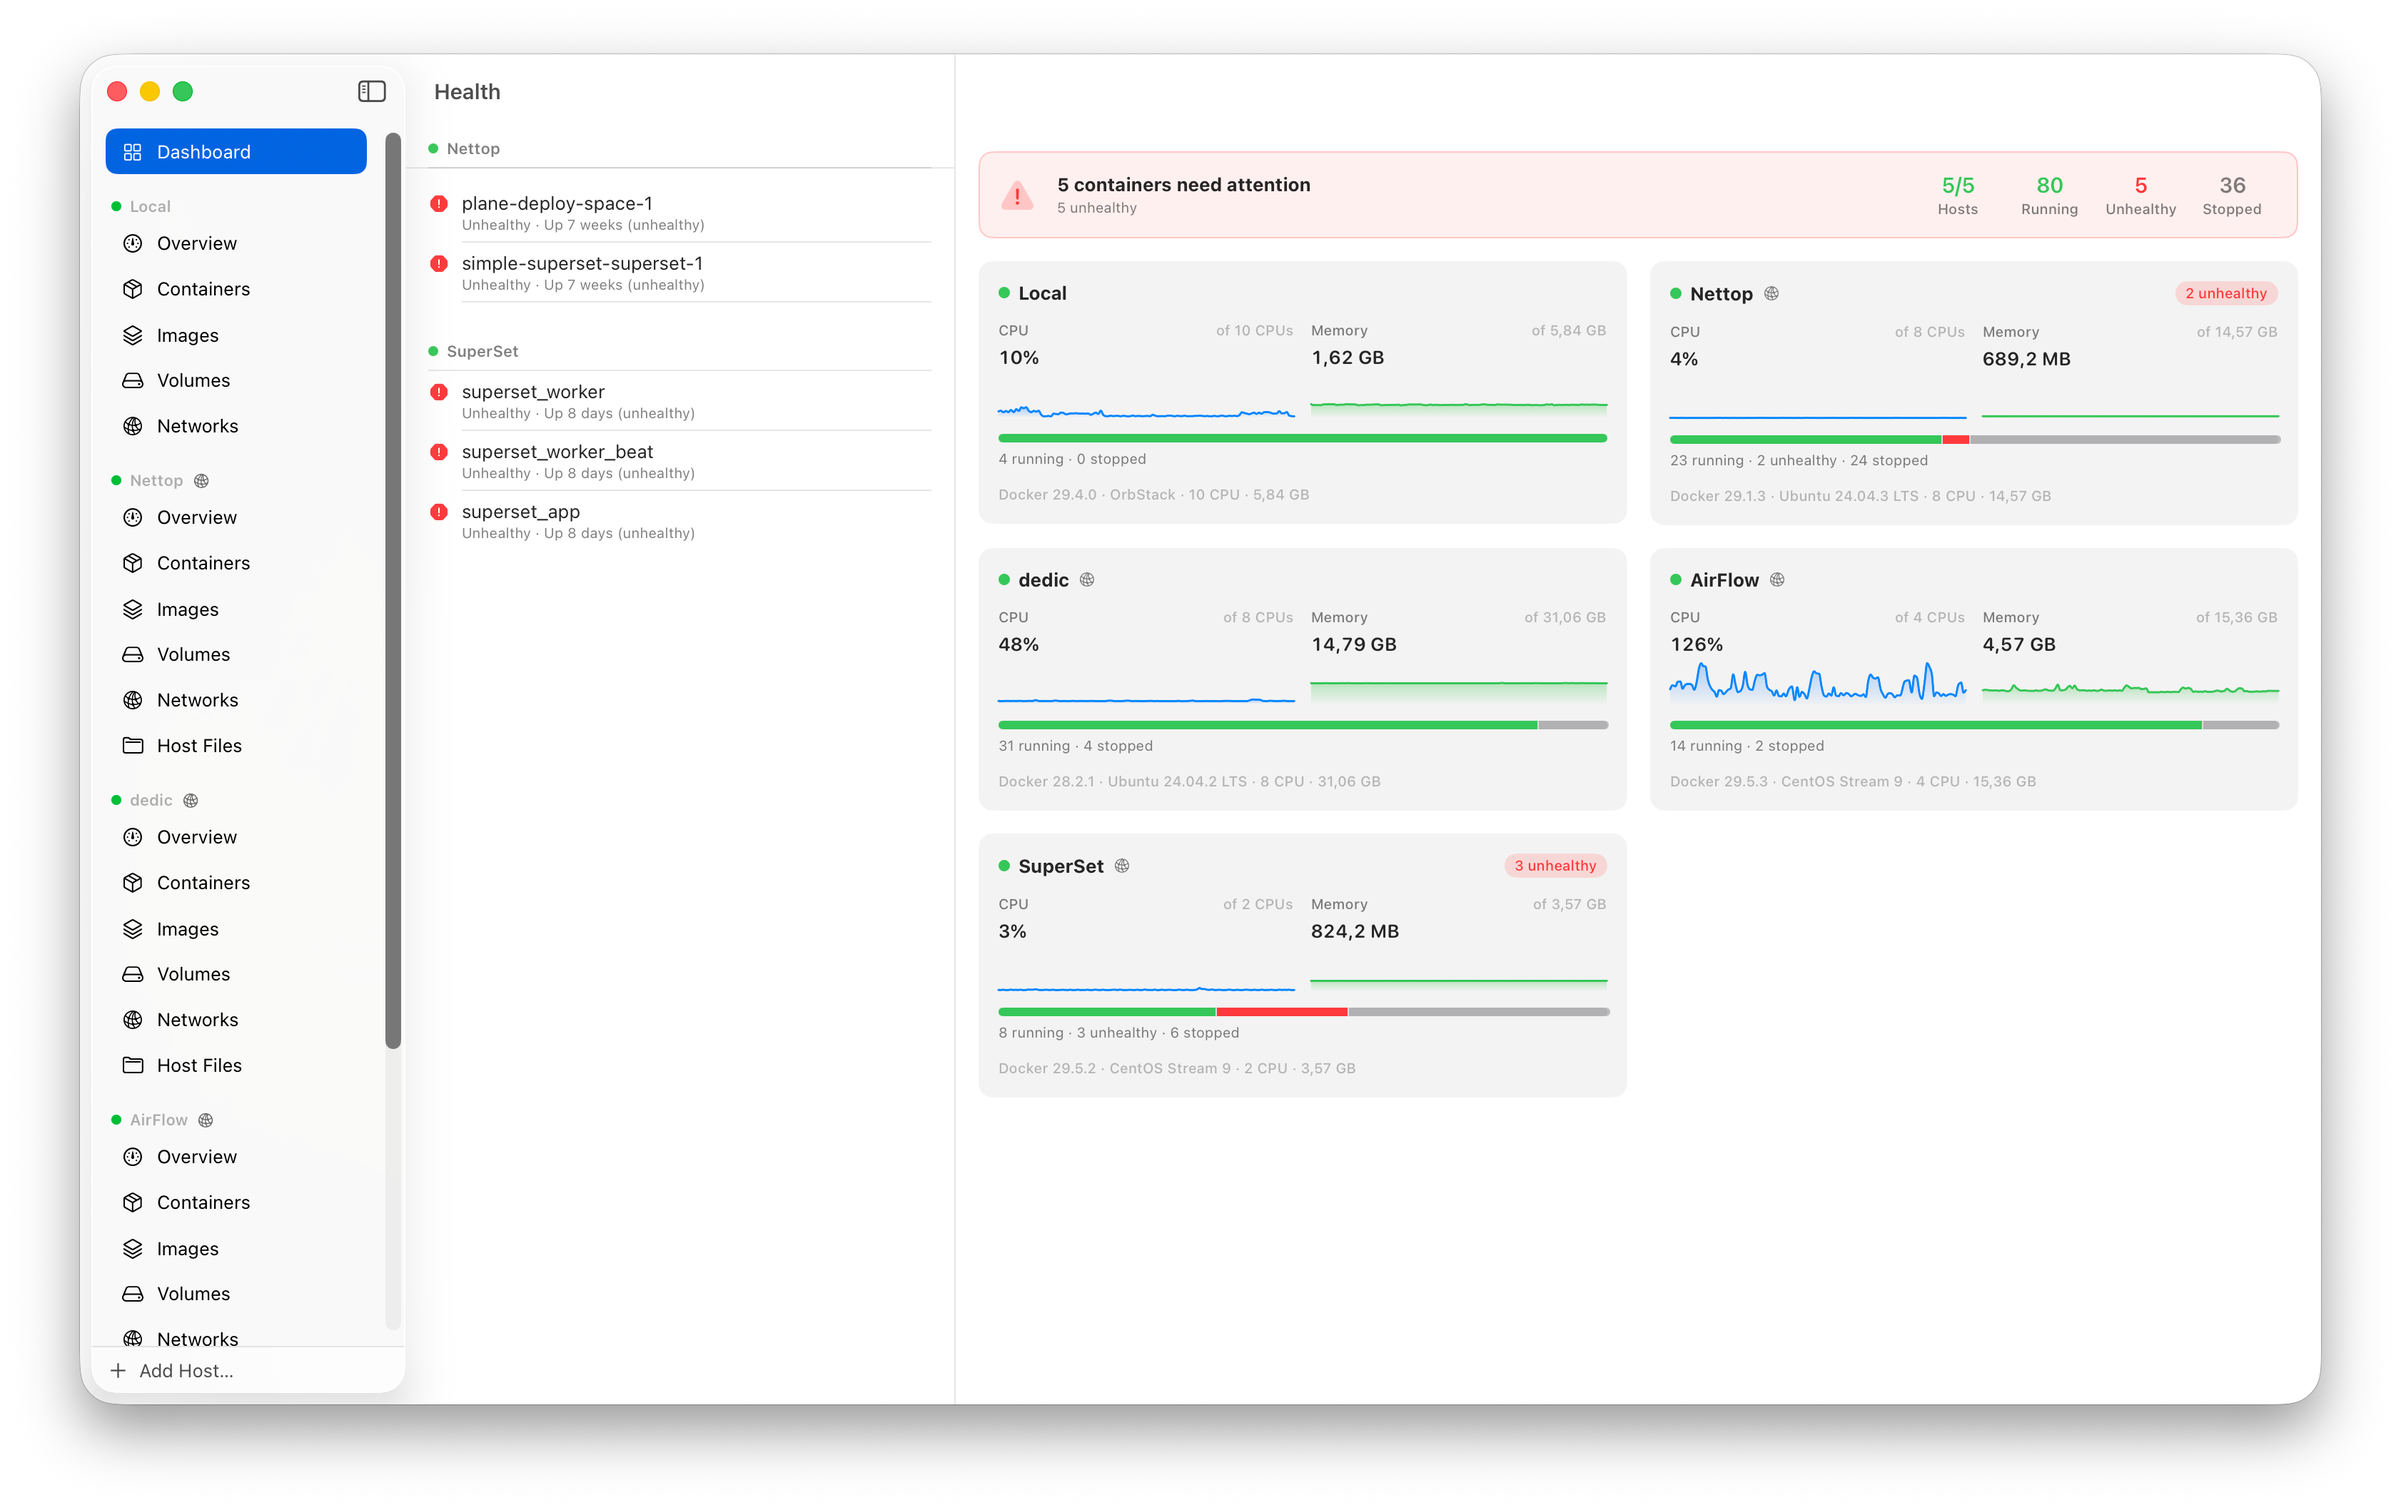
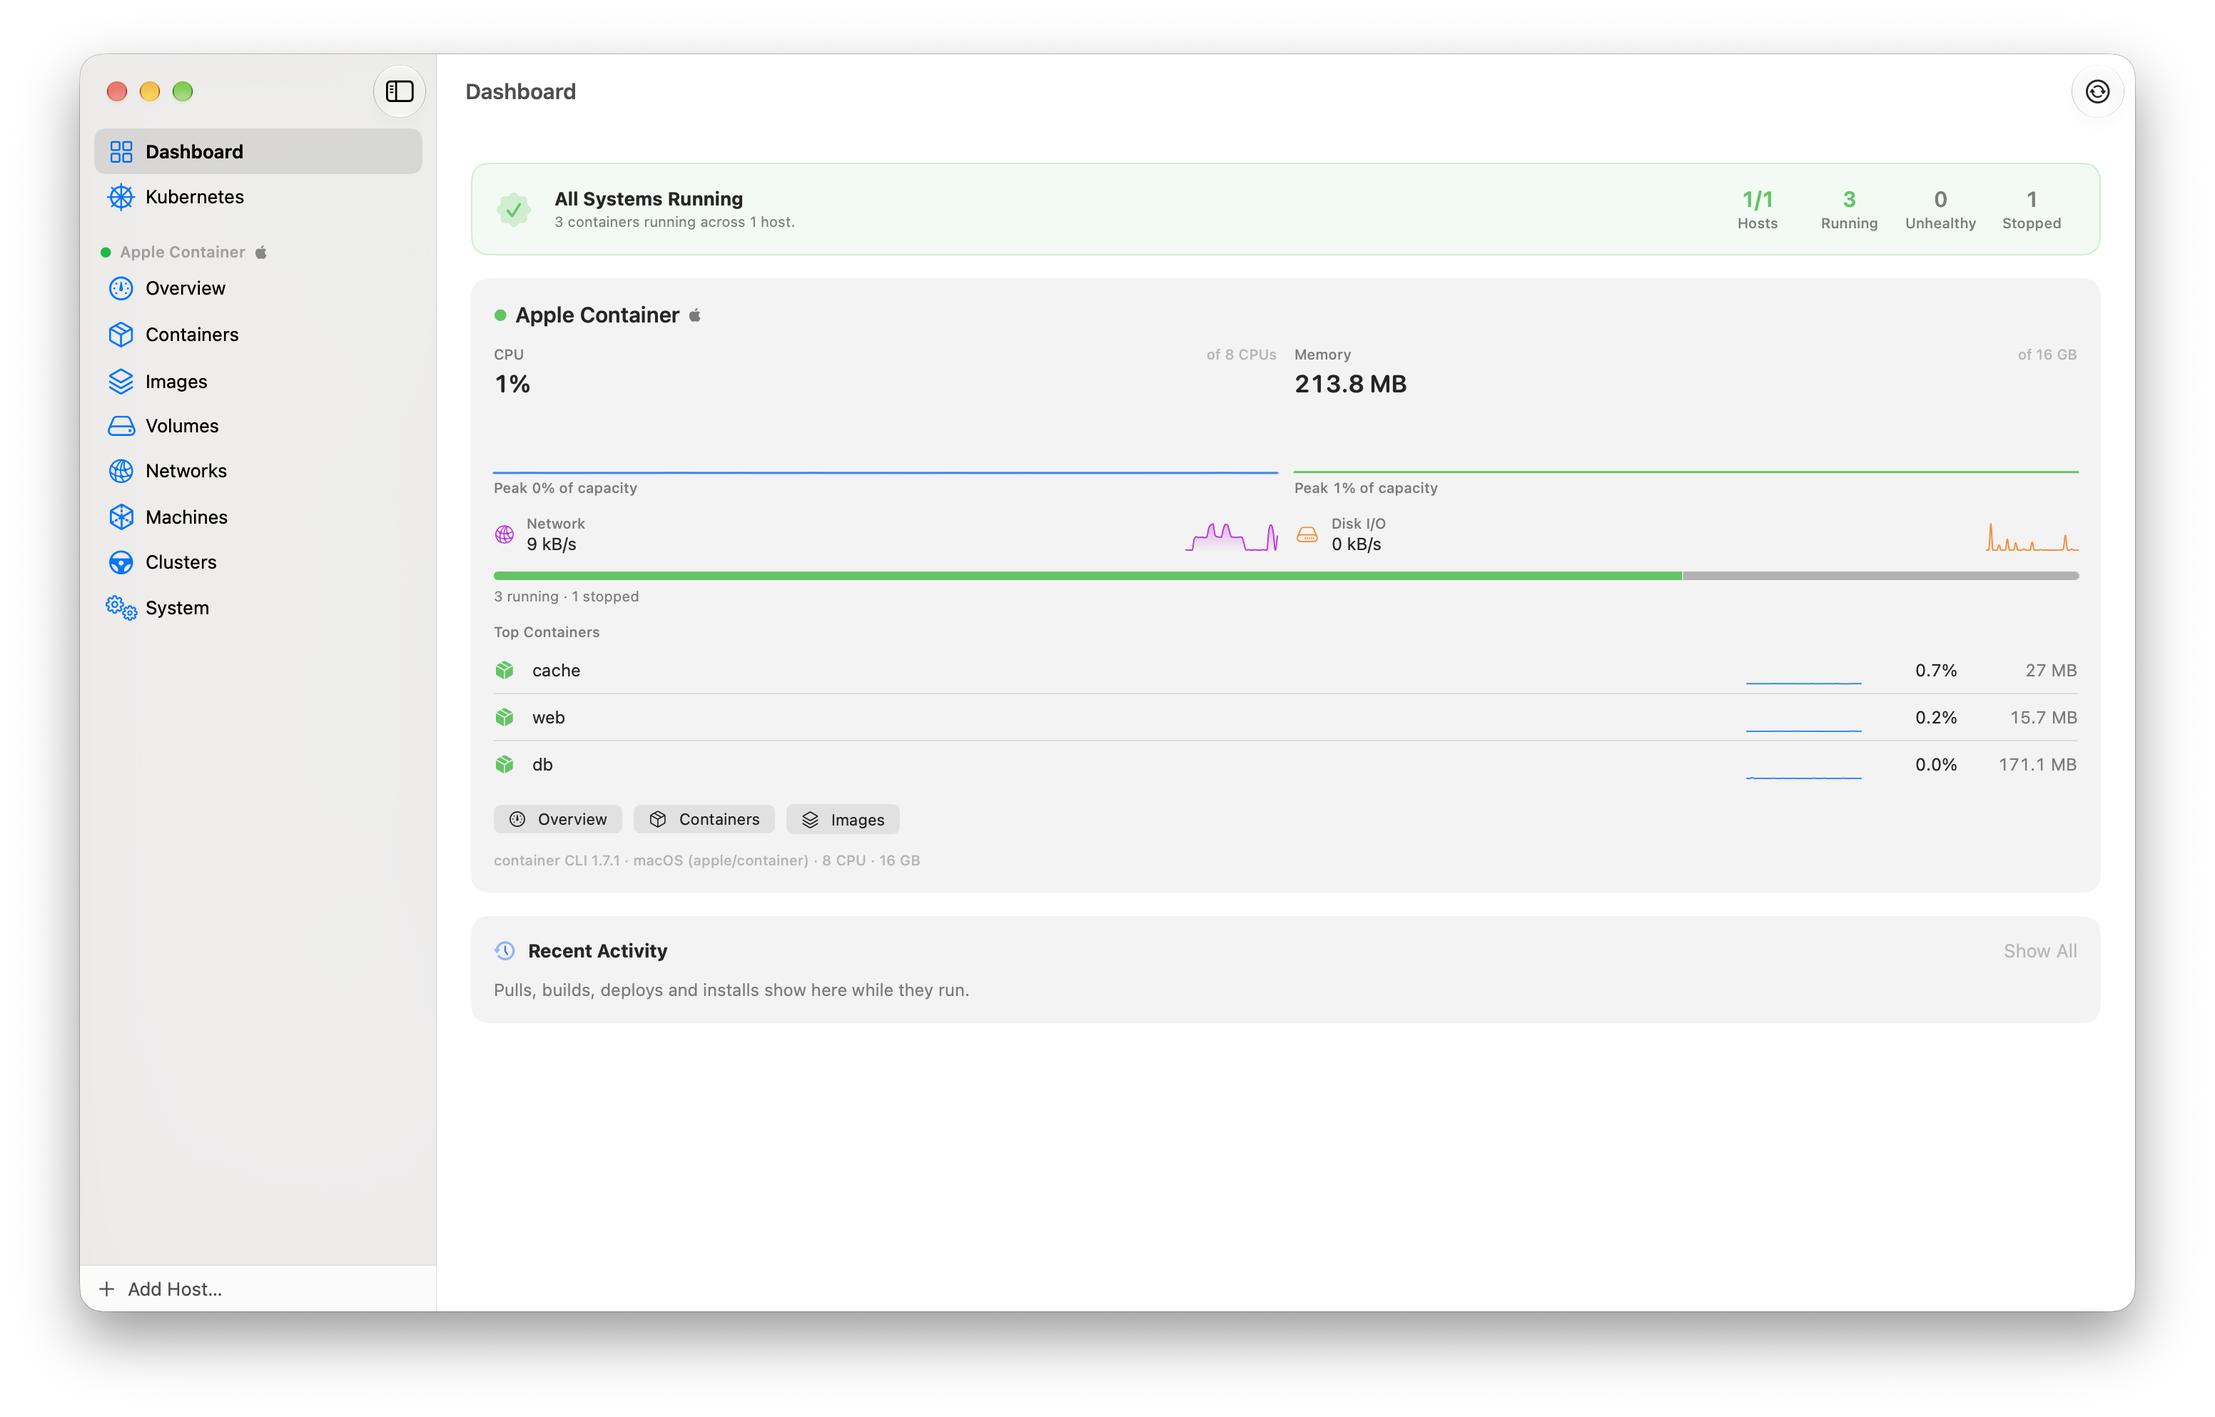
feat(pages): add the 0.27.0 screenshots and turn on native kubernetes and external storage

diff --git a/templates/home.html b/templates/home.html
@@ -138,7 +138,7 @@
                 </div>
                 <div class="window-body">
                   <div class="container-skin"></div>
-                  <img src="{{ root }}assets/dashboard.png" alt="{{ t.home.hero.img_alt|attr }}" width="1200" height="755" decoding="async" fetchpriority="high">
+                  <img src="{{ root }}assets/dashboard.png" alt="{{ t.home.hero.img_alt|attr }}" width="1200" height="768" decoding="async" fetchpriority="high">
                 </div>
               </div>
             </div>
@@ -478,7 +478,7 @@
             <figure>
               <div class="window dark-chrome" data-parallax="0.04">
                 <div class="titlebar"><span class="dot r"></span><span class="dot y"></span><span class="dot g"></span><span class="tb-title">{{ t.home.shots.stats_title }}</span></div>
-                <div class="window-body"><img src="{{ root }}assets/stats.png" alt="{{ t.home.shots.stats_alt|attr }}" width="3364" height="2116" loading="lazy" decoding="async"></div>
+                <div class="window-body"><img src="{{ root }}assets/stats.png" alt="{{ t.home.shots.stats_alt|attr }}" width="3104" height="1986" loading="lazy" decoding="async"></div>
               </div>
               <figcaption>{{ t.home.shots.stats_caption }}</figcaption>
             </figure>
@@ -487,7 +487,7 @@
             <figure>
               <div class="window dark-chrome" data-parallax="0.06">
                 <div class="titlebar"><span class="dot r"></span><span class="dot y"></span><span class="dot g"></span><span class="tb-title">{{ t.home.shots.overview_title }}</span></div>
-                <div class="window-body"><img src="{{ root }}assets/overview.png" alt="{{ t.home.shots.overview_alt|attr }}" width="3364" height="2116" loading="lazy" decoding="async"></div>
+                <div class="window-body"><img src="{{ root }}assets/overview.png" alt="{{ t.home.shots.overview_alt|attr }}" width="3104" height="1986" loading="lazy" decoding="async"></div>
               </div>
               <figcaption>{{ t.home.shots.overview_caption }}</figcaption>
             </figure>
@@ -496,7 +496,7 @@
             <figure>
               <div class="window dark-chrome" data-parallax="0.06">
                 <div class="titlebar"><span class="dot r"></span><span class="dot y"></span><span class="dot g"></span><span class="tb-title">{{ t.home.shots.fleet_title }}</span></div>
-                <div class="window-body"><img src="{{ root }}assets/dashboard.png" alt="{{ t.home.shots.fleet_alt|attr }}" width="3364" height="2116" loading="lazy" decoding="async"></div>
+                <div class="window-body"><img src="{{ root }}assets/fleet.png" alt="{{ t.home.shots.fleet_alt|attr }}" width="3364" height="2116" loading="lazy" decoding="async"></div>
               </div>
               <figcaption>{{ t.home.shots.fleet_caption }}</figcaption>
             </figure>

diff --git a/styles.css b/styles.css
@@ -538,6 +538,12 @@ a { color: inherit; text-decoration: none; }
 .shot .window { border: 1px solid var(--border); }
 .shot figcaption { margin-top: 14px; color: var(--text-dim); font-size: 0.92rem; font-weight: 500; display: flex; gap: 9px; align-items: baseline; }
 .shot figcaption b { color: var(--text); font-weight: 640; }
+/* Screenshots that build_pages.py shot() inserts into pages and guides. */
+.guide-shot { margin: 28px auto; max-width: 100%; }
+.guide-shot img { display: block; width: 100%; max-width: 100%; height: auto; }
+.guide-shot img[src*="explain-failure"] { max-width: 560px; margin: 0 auto; }
+.guide-shot figcaption { margin-top: 10px; color: var(--text-dim); font-size: 0.92rem; text-align: center; }
+.guide-shot figcaption b { color: var(--text); font-weight: 640; }
 .shot.wide { grid-column: span 2; }
 
 /* ============================ Built different ============================ */

diff --git a/build_pages.py b/build_pages.py
@@ -21,8 +21,8 @@ APP_VERSION = "0.27.0"
 # Features that are built on a branch but not merged yet. The pages show the text for the shipped state only when
 # the flag is True; flip a flag when its branch merges and rebuild.
 FLAGS = {
-    "k8s_native": False,        # feat/kubernetes-native: Kubernetes browser without kubectl
-    "external_storage": False,  # feat/external-storage: move the data root, volumes on a disk, unplug safety
+    "k8s_native": True,         # feat/kubernetes-native: Kubernetes browser without kubectl
+    "external_storage": True,   # feat/external-storage: move the data root, volumes on a disk, unplug safety
 }
 VARIANTS = {"_native": "k8s_native", "_shipped": "external_storage"}
 FIXED_KEYS = {"id", "code", "table", "shot", "when", "unless"}

diff --git a/specs/001-landing-027/tasks.md b/specs/001-landing-027/tasks.md
@@ -23,16 +23,16 @@ description: "Task list for the Gantry 0.27.0 landing update"
 
 ## Phase 1: Setup (Facts and Sources)
 
-- [ ] T001 Read build_pages.py, build_docs.py, templates/ and i18n/en.json. Write down how hreflang, the sitemap, llms.txt, JSON-LD and Open Graph tags are built.
-- [ ] T002 [P] Collect the 0.27.0 facts from ~/PycharmProjects/docker-watch/CHANGELOG.md, PRs #47 to #55 and /Volumes/SanDisk2Tb/builds/gantry-027/*/REPORT.md into a claims list with a source for each claim
-- [ ] T003 [P] Collect the current facts of Docker Desktop, OrbStack and Podman Desktop from their own pages, with links
+- [x] T001 Read build_pages.py, build_docs.py, templates/ and i18n/en.json. Write down how hreflang, the sitemap, llms.txt, JSON-LD and Open Graph tags are built.
+- [x] T002 [P] Collect the 0.27.0 facts from ~/PycharmProjects/docker-watch/CHANGELOG.md, PRs #47 to #55 and /Volumes/SanDisk2Tb/builds/gantry-027/*/REPORT.md into a claims list with a source for each claim
+- [x] T003 [P] Collect the current facts of Docker Desktop, OrbStack and Podman Desktop from their own pages, with links
 
 ---
 
 ## Phase 2: Foundational (Blocking Prerequisites)
 
-- [ ] T004 Write the link checker with checks for unique titles, unique descriptions, sitemap entries and hreflang in scripts/check_links.py
-- [ ] T005 Decide if the comparison and Kubernetes guides update the existing pages or are new pages (open question in spec.md)
+- [x] T004 Write the link checker with checks for unique titles, unique descriptions, sitemap entries and hreflang in scripts/check_links.py
+- [x] T005 Decide if the comparison and Kubernetes guides update the existing pages or are new pages (open question in spec.md)
 
 ---
 
@@ -40,11 +40,11 @@ description: "Task list for the Gantry 0.27.0 landing update"
 
 **Goal**: Exact 0.27.0 claims on the home page and the two product pages.
 
-- [ ] T006 [US1] Update the feature sections in templates/home.html and the `home` keys in i18n/en.json
-- [ ] T007 [P] [US1] Update templates/apple-container.html and the `guide` keys in i18n/en.json for 1.7.1 support
-- [ ] T008 [P] [US1] Update templates/apple-container-kubernetes.html and the `k8s` keys in i18n/en.json for the native client, workers and the shared image store
-- [ ] T009 [US1] Add `TODO-SCREENSHOT` markers with section and file name for each new feature in the templates
-- [ ] T010 [US1] Check each claim against the claims list from T002
+- [x] T006 [US1] Update the feature sections in templates/home.html and the `home` keys in i18n/en.json
+- [x] T007 [P] [US1] Update templates/apple-container.html and the `guide` keys in i18n/en.json for 1.7.1 support
+- [x] T008 [P] [US1] Update templates/apple-container-kubernetes.html and the `k8s` keys in i18n/en.json for the native client, workers and the shared image store
+- [x] T009 [US1] Add `TODO-SCREENSHOT` markers with section and file name for each new feature in the templates
+- [x] T010 [US1] Check each claim against the claims list from T002
 
 ---
 
@@ -52,13 +52,13 @@ description: "Task list for the Gantry 0.27.0 landing update"
 
 **Goal**: Five guides that teach a real task.
 
-- [ ] T011 [US2] Add the five guide slugs to `PAGES` in build_pages.py
-- [ ] T012 [P] [US2] Write the English guide "Run Kubernetes on a Mac with Apple container" in i18n/en.json and its template in templates/
-- [ ] T013 [P] [US2] Write the English guide "Move from Docker Desktop to Apple container" in i18n/en.json
-- [ ] T014 [P] [US2] Write the English guide "Gantry vs Docker Desktop vs OrbStack vs Podman Desktop" with cited facts in i18n/en.json and templates/compare.html
-- [ ] T015 [P] [US2] Write the English guide "Store containers and volumes on an external drive on a Mac" in i18n/en.json
-- [ ] T016 [P] [US2] Write the English guide "Create a container from a docker run command" in i18n/en.json
-- [ ] T017 [US2] Add a FAQ in JSON-LD and internal links to each guide in build_pages.py
+- [x] T011 [US2] Add the five guide slugs to `PAGES` in build_pages.py
+- [x] T012 [P] [US2] Write the English guide "Run Kubernetes on a Mac with Apple container" in i18n/en.json and its template in templates/
+- [x] T013 [P] [US2] Write the English guide "Move from Docker Desktop to Apple container" in i18n/en.json
+- [x] T014 [P] [US2] Write the English guide "Gantry vs Docker Desktop vs OrbStack vs Podman Desktop" with cited facts in i18n/en.json and templates/compare.html
+- [x] T015 [P] [US2] Write the English guide "Store containers and volumes on an external drive on a Mac" in i18n/en.json
+- [x] T016 [P] [US2] Write the English guide "Create a container from a docker run command" in i18n/en.json
+- [x] T017 [US2] Add a FAQ in JSON-LD and internal links to each guide in build_pages.py
 
 ---
 
@@ -66,26 +66,26 @@ description: "Task list for the Gantry 0.27.0 landing update"
 
 **Goal**: All new and changed strings in 26 more languages.
 
-- [ ] T018 [US3] Translate the new and changed keys into each i18n/<lang>.json with /Volumes/SanDisk2Tb/builds/l10n/reviewed/<lang>.glossary.md and /Volumes/SanDisk2Tb/builds/l10n-027*/out/<lang>.glossary-add.md
-- [ ] T019 [US3] Check that Serbian Latin comes from i18n/sr.json through the transliteration
-- [ ] T020 [US3] Run the key check of build_pages.py and fix missing or extra keys in each language
+- [x] T018 [US3] Translate the new and changed keys into each i18n/<lang>.json with /Volumes/SanDisk2Tb/builds/l10n/reviewed/<lang>.glossary.md and /Volumes/SanDisk2Tb/builds/l10n-027*/out/<lang>.glossary-add.md
+- [x] T019 [US3] Check that Serbian Latin comes from i18n/sr.json through the transliteration
+- [x] T020 [US3] Run the key check of build_pages.py and fix missing or extra keys in each language
 
 ---
 
 ## Phase 6: User Story 4 - Search and AI search (Priority: P2)
 
-- [ ] T021 [US4] Add the new features and guides to the llms output in build_pages.py
-- [ ] T022 [US4] Run build_docs.py and build_pages.py
-- [ ] T023 [US4] Run scripts/check_links.py and fix every failure
+- [x] T021 [US4] Add the new features and guides to the llms output in build_pages.py
+- [x] T022 [US4] Run build_docs.py and build_pages.py
+- [x] T023 [US4] Run scripts/check_links.py and fix every failure
 
 ---
 
 ## Phase 7: Polish & Cross-Cutting Concerns
 
-- [ ] T024 Check the pages without JavaScript, in light and dark mode, and at phone width
-- [ ] T025 Commit on `feat/landing-027` with Conventional Commits and push the branch. Keep the branch unmerged. Send no IndexNow request.
-- [ ] T026 Write /Volumes/SanDisk2Tb/builds/gantry-027/landing/REPORT.md
-- [ ] T027 Before the merge, remove the claims of any app branch that is not in the 0.27.0 release, and add the real screenshots
+- [x] T024 Check the pages without JavaScript, in light and dark mode, and at phone width
+- [x] T025 Commit on `feat/landing-027` with Conventional Commits and push the branch. Keep the branch unmerged. Send no IndexNow request.
+- [x] T026 Write /Volumes/SanDisk2Tb/builds/gantry-027/landing/REPORT.md
+- [x] T027 Before the merge, remove the claims of any app branch that is not in the 0.27.0 release, and add the real screenshots
 
 ---
 
